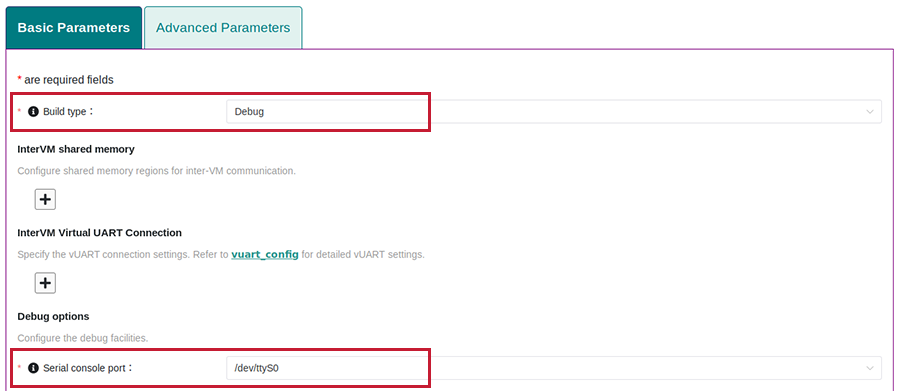
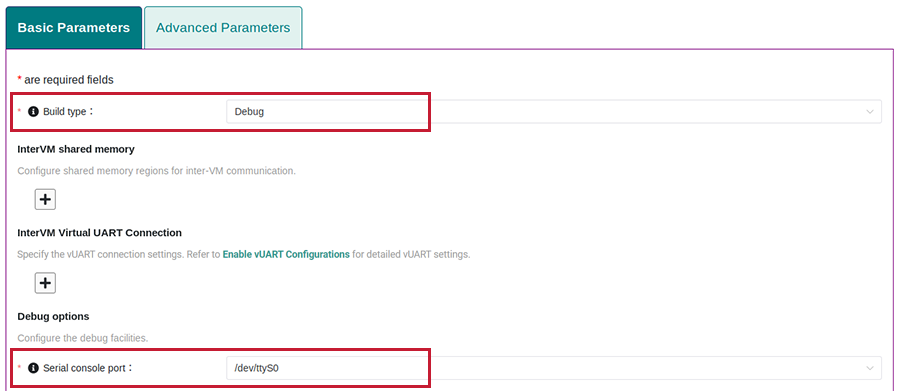
doc: Update GSG
- Update v3.0 tag for acrn-hypervisor
- Update virtio console description
- Update screenshots

Changed region(s): [[0.0, 0.6138, 0.5289, 0.6752]]

diff --git a/doc/getting-started/getting-started.rst b/doc/getting-started/getting-started.rst
@@ -164,7 +164,7 @@ To set up the ACRN build environment on the development computer:
       cd ~/acrn-work
       git clone https://github.com/projectacrn/acrn-hypervisor.git
       cd acrn-hypervisor
-      git checkout release_3.0
+      git checkout v3.0
 
       cd ..
       git clone --depth 1 --branch release_3.0 https://github.com/projectacrn/acrn-kernel.git
@@ -487,8 +487,9 @@ post-launched User VM. Each User VM has its own launch script.
    #. For **Physical CPU affinity**, select pCPU ID ``0``, then click **+** and
       select pCPU ID ``1`` to affine the VM to CPU cores 0 and 1.
 
-   #. For Virt-IO devices, select the Virtio console device and click + for a 
-      default option.   
+   #. For **Virtio console device**, click **+** to add a device and keep the
+      default options. This parameter specifies the console that you will use to
+      log in to the User VM later in this guide.
 
    #. For **Virtio block device**, click **+** and enter
       ``~/acrn-work/ubuntu-20.04.4-desktop-amd64.iso``. This parameter
